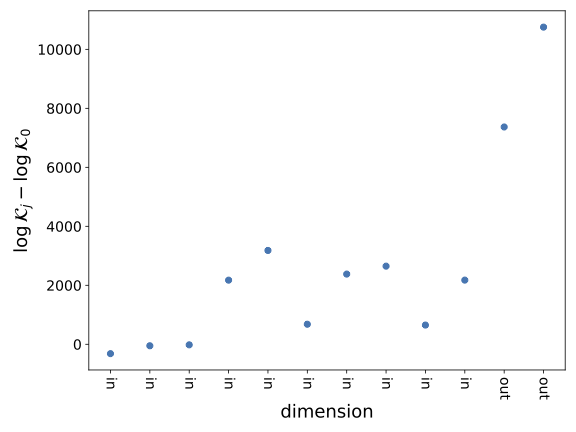
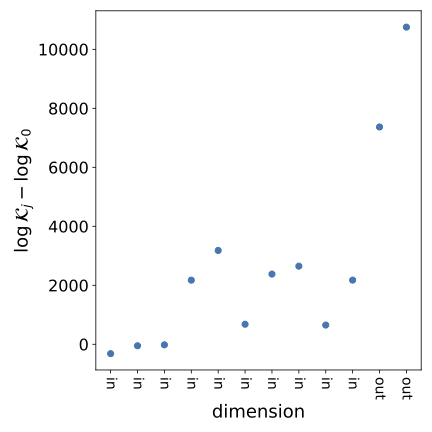
Better figures for README web display.

diff --git a/svc/RNAGlass.py b/svc/RNAGlass.py
@@ -643,10 +643,11 @@ def main(config):
         plt.savefig(os.path.join(out_folder, 'SVC_mn_sd.pdf'))
 
         # Data selection results.
-        plt.figure(figsize=(8, 6))
+        plt.figure(figsize=(6, 6))
         plt.plot(select_prob, 'o')
         plt.xticks(np.arange(len(gene_names)), gene_names,
                    rotation=-90, fontsize=16)
+        plt.yticks(fontsize=16)
         plt.ylabel(r'selection probability $\phi$', fontsize=18)
         plt.tight_layout()
         plt.savefig(os.path.join(out_folder, 'selection_prob.pdf'))
@@ -666,10 +667,11 @@ def main(config):
         J = model.jorganizer.forward(Jraw).cpu().numpy()
         interact = (J[:, :, 1, 0] + J[:, :, 0, 1]
                     - J[:, :, 0, 0] - J[:, :, 1, 1])
-        plt.figure(figsize=(8, 8))
+        plt.figure(figsize=(6, 6))
         clim = np.max(np.abs(interact))
         plt.imshow(-interact, cmap='seismic', vmin=-clim, vmax=clim)
-        plt.colorbar()
+        cbar = plt.colorbar()
+        cbar.ax.tick_params(labelsize=16)
         plt.title(r'$\Delta E$', fontsize=18)
         plt.xticks(np.arange(len(gene_names)), gene_names,
                    rotation=-90, fontsize=16)

diff --git a/svc/pPCA.py b/svc/pPCA.py
@@ -551,22 +551,22 @@ def main(config):
         plt.tight_layout()
         plt.savefig(os.path.join(out_folder, 'PCA_Sigma_estimation.pdf'))
 
-        plt.figure(figsize=(8, 6))
+        plt.figure(figsize=(6, 6))
         plt.plot(-IJ_grad, 'o')
         plt.xticks(np.arange(len(IJ_grad)), gene_names,
                    rotation=-90, fontsize=14)
-        plt.yticks(fontsize=14)
+        plt.yticks(fontsize=16)
         plt.ylabel(r'$\log \mathcal{K}_j - \log \mathcal{K}_0$', fontsize=18)
         plt.xlabel('dimension', fontsize=18)
         plt.tight_layout()
         plt.savefig(os.path.join(out_folder, 'PCA_IJ.pdf'))
 
-        plt.figure(figsize=(8, 6))
+        plt.figure(figsize=(6, 6))
         naive_shift = -extras['cost0'] + extras['cost_inits']
         plt.plot(-naive_shift, 'o')
         plt.xticks(np.arange(len(IJ_grad)), gene_names,
                    rotation=-90, fontsize=14)
-        plt.yticks(fontsize=14)
+        plt.yticks(fontsize=16)
         plt.ylabel(r'$\log \mathcal{E}_j - \log \mathcal{E}_0$', fontsize=18)
         plt.xlabel('dimension', fontsize=18)
         plt.tight_layout()

diff --git a/README.md b/README.md
@@ -35,7 +35,7 @@ To perform data selection on the glass model of expression data described in the
 A detailed description of the model's options and how to input your own data can be found in the config file `example_RNAGlass.cfg`.
 
 Results will (by default) be put in a time-stamped subfolder within the results
-folder. Below is an example output plot based on simulated data showing which data dimensions are included (selection probability phi close to 1) and which are excluded (selection probability close to 0) by the stochastic data selection procedure. The dimension marked "out" has more severe misspecification than the others, and it is, appropriately,
+folder. Below is an example output plot based on simulated data showing which data dimensions are included (selection probability phi close to 1) and which are excluded (selection probability phi close to 0) by the stochastic data selection procedure. The dimension marked "out" has more severe misspecification than the others, and it is, appropriately,
 deselected.
 
 ![selection probability](svc/results/examples/selection_prob.png)
